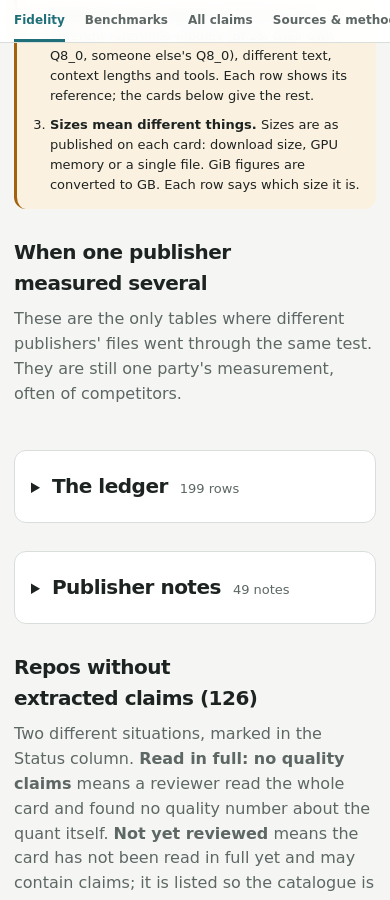
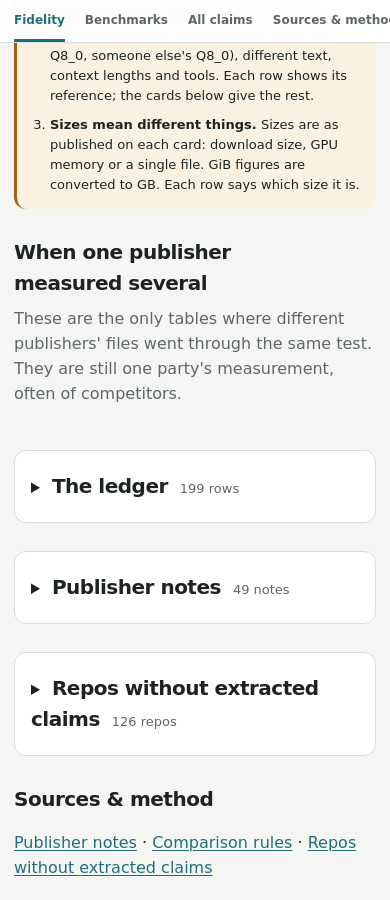
Collapse repositories without extracted claims too

Changed region(s): [[0.0308, 0.7156, 0.9538, 0.9956]]

diff --git a/build.py b/build.py
@@ -688,11 +688,11 @@ def render(rows, repos, stats, verify_counts, highlights, exdata=''):
 <div class="filters"><label for="cq">Search</label><input id="cq" type="search" placeholder="publisher, format, flag text…"><label class="cb" for="cflag"><input id="cflag" type="checkbox"> Only notes with flags</label><span id="ccount" class="count" aria-live="polite"></span></div>
 <div class="cards" id="cards">{"".join(cards)}</div>
 </details></section>
-<section id="no-claims"><h2>Repos without extracted claims ({len(noclaim)})</h2>
+<section id="no-claims"><details id="no-claims-details" class="section-disclosure"><summary><h2>Repos without extracted claims</h2><span class="dim">{len(noclaim)} repos</span></summary>
 <p class="note">Two different situations, marked in the Status column. <b>Read in full: no quality claims</b> means a reviewer read the whole card and found no quality number about the quant itself. <b>Not yet reviewed</b> means the card has not been read in full yet and may contain claims; it is listed so the catalogue is complete, not as a finding.</p>
 <div class="filters"><label for="ncq">Search</label><input id="ncq" type="search" placeholder="publisher or format…"><label for="ncs">Status</label><select id="ncs"><option value="">Any</option><option>not yet reviewed</option><option>read in full: no quality claims</option></select><span id="nccount" class="count" aria-live="polite"></span></div>
 <div class="tablebox"><table class="disagree" id="nctable"><thead><tr><th>Repository</th><th>Status</th><th>Format</th><th>Weights</th><th>Note</th><th>Card</th></tr></thead><tbody>{nc_rows}</tbody></table></div>
-</section>
+</details></section>
 <section id="method" class="method-sec"><h2>Sources &amp; method</h2><p><a href="#publishers">Publisher notes</a> · <a href="#read-first">Comparison rules</a> · <a href="#no-claims">Repos without extracted claims</a></p>
 <p>We listed every repository Hugging Face tags as a quantization of <a href="https://huggingface.co/{E(MODEL)}">{E(MODEL)}</a> ({s["repos"]} on {captured}) and saved each raw <code>README.md</code> at its pinned commit into a local ledger, so nothing is re-fetched. Cards that reproduce another publisher's numbers are detected by comparing claim lines across all cards and are not counted as independent measurements. Results published only as chart images were transcribed from their labels and checked against the marker positions in the image. Numbers were extracted with the line they came from, then a script confirmed that {verify_counts["values"]} published values appear verbatim on their cited lines ({verify_counts["fails"]} failures). For every card that carried measured claims at the first pass (196 of {s["repos"]}), a second reader re-extracted the numbers without seeing our data, and disagreements were resolved against the source text; the remaining cards were each read in full by one reader. Rows a card quotes from elsewhere are marked "quoted" and are not counted as measurements; rows measured on a different model are left out ({s["other_model"]}). File sizes without a card figure come from Hugging Face's file listing at the same commit.</p>
 {('<p>' + E(PIN_NOTE) + '</p>') if PIN_NOTE else ''}

diff --git a/tests/test_disclosures_ui.py b/tests/test_disclosures_ui.py
@@ -13,7 +13,7 @@ async def main():
             page.on('pageerror', lambda e: errors.append(str(e)))
             url=(ROOT/'models/glm-5.3-flash/site/index.html').as_uri()
             await page.goto(url)
-            for ident in ('ledger-details','publisher-details'):
+            for ident in ('ledger-details','publisher-details','no-claims-details'):
                 assert not await page.locator('#'+ident).evaluate('(e) => e.open')
             await page.locator('#ledger').scroll_into_view_if_needed()
             out=ROOT/'docs/previews'; out.mkdir(exist_ok=True)
@@ -36,6 +36,14 @@ async def main():
             await page.goto(url+'#ledger')
             assert await page.locator('#q').is_visible()
             assert await page.evaluate('document.documentElement.scrollWidth <= innerWidth')
+            await page.goto(url+'#no-claims')
+            assert await page.locator('#ncq').is_visible()
+            await page.select_option('#ncs', 'read in full: no quality claims')
+            assert not (await page.locator('#nccount').inner_text()).startswith('0 ')
+            await page.locator('#no-claims-details > summary').click()
+            await page.locator('#method a[href="#no-claims"]').click()
+            assert await page.locator('#ncs').input_value() == 'read in full: no quality claims'
+            assert await page.locator('#ncq').is_visible()
             assert not errors, errors
             print(f'PASS {width}px: collapsed defaults, direct section/card links, search state, no overflow or JS errors')
             await page.close()
@@ -44,8 +52,10 @@ async def main():
         await page.goto(url)
         await page.locator('#ledger-details > summary').click()
         await page.locator('#publisher-details > summary').click()
+        await page.locator('#no-claims-details > summary').click()
+        assert await page.locator('#nctable').is_visible()
         assert await page.locator('#t').is_visible()
         assert await page.locator('#cards').is_visible()
-        print('PASS no JavaScript: both sections open natively')
+        print('PASS no JavaScript: all three sections open natively')
         await browser.close()
 asyncio.run(main())

diff --git a/tests/test_ui.py b/tests/test_ui.py
@@ -244,6 +244,8 @@ async def main():
             note_term = next(t for t in re.findall(r"[A-Za-z]{4,}", note_texts[0]) if 0 < sum(t.lower() in x.lower() for x in note_texts) < len(note_texts))
             await pg.fill("#cq", note_term); await pg.wait_for_timeout(100)
             cc = await pg.text_content("#ccount"); check(cc and cc.startswith(str(sum(note_term.lower() in x.lower() for x in note_texts)) + " of"), f"{name}: notes search ({cc})")
+            check(not await pg.locator('#no-claims-details').evaluate('(e) => e.open'), f"{name}: repos without extracted claims start collapsed")
+            await pg.locator('#no-claims-details > summary').click()
             await pg.select_option("#ncs", "read in full: no quality claims"); await pg.wait_for_timeout(50)
             ncc = await pg.text_content("#nccount"); check(ncc and not ncc.startswith("0 "), f"{name}: no-claims status filter ({ncc})")
             sw = await pg.evaluate("document.documentElement.scrollWidth - document.documentElement.clientWidth")

diff --git a/PROGRESS.md b/PROGRESS.md
@@ -105,3 +105,5 @@
 - Section and individual-publisher links open the corresponding disclosure; a direct publisher link also clears a filter hiding that card.
 - Responsive checks pass at 320/390/1366px for defaults, search, retained filters, section/card anchors and overflow; native disclosures open with JavaScript disabled. Added to CI.
 - Prepared for owner review before deployment.
+
+- Owner refinement: Repos without extracted claims also starts collapsed, with its repository count visible. Direct links, retained status filters and no-JavaScript opening covered in the same responsive regression.
